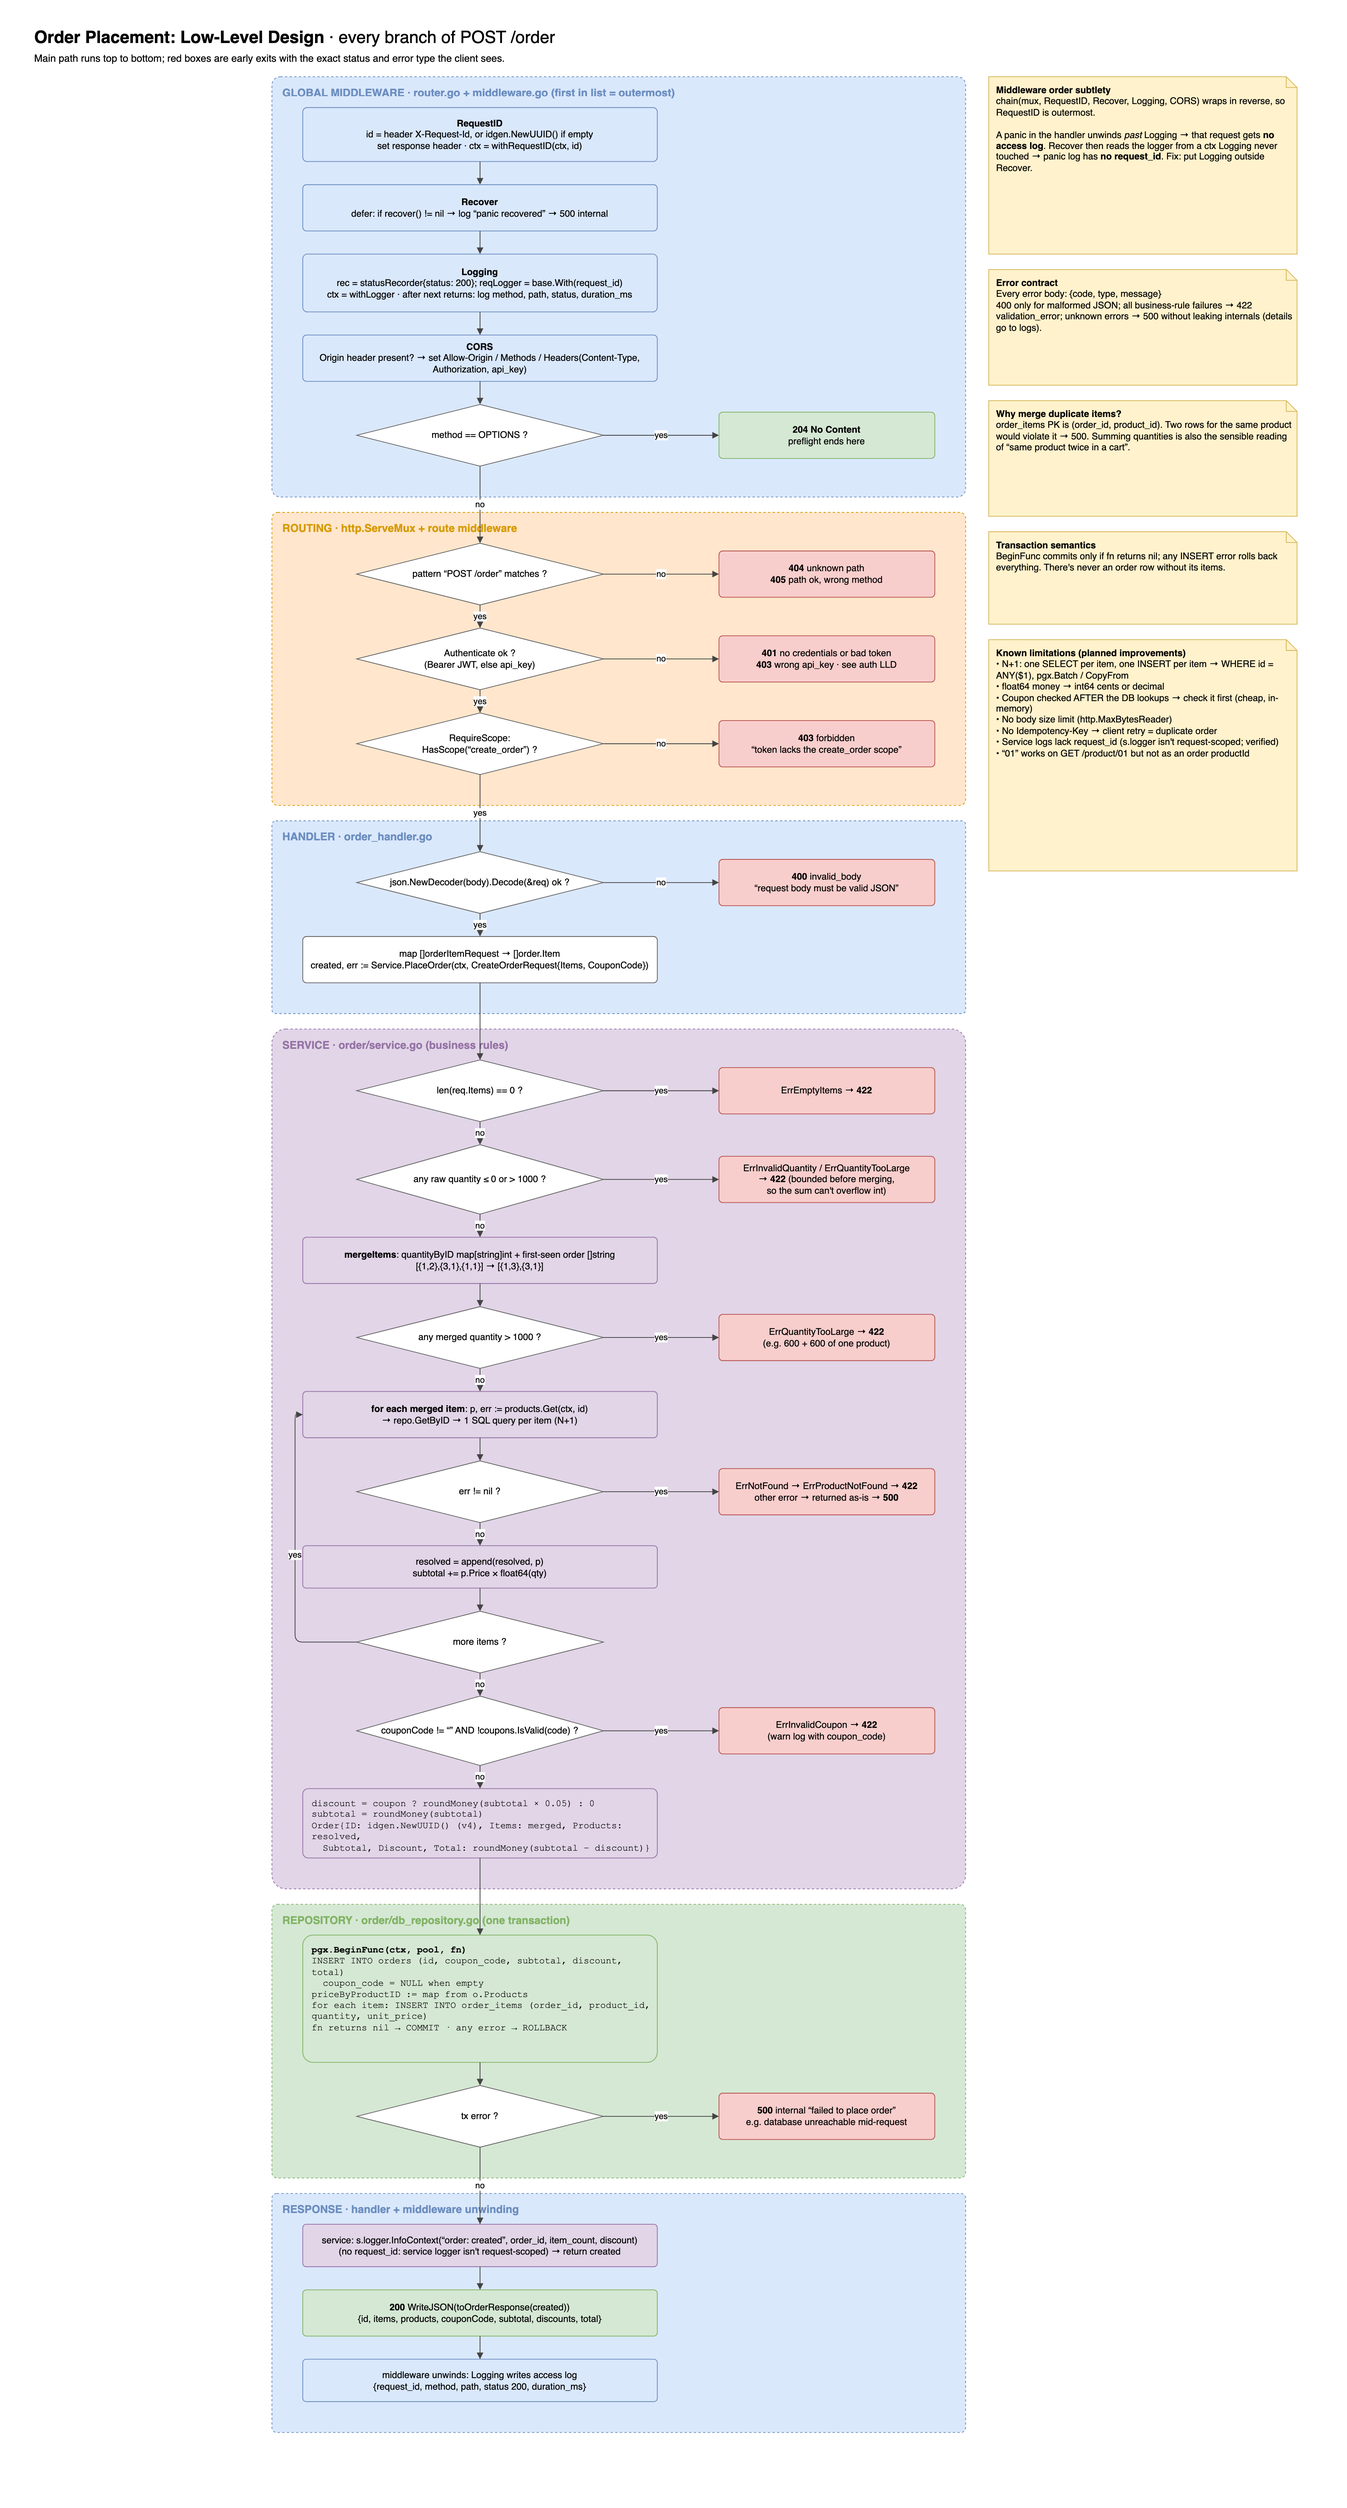
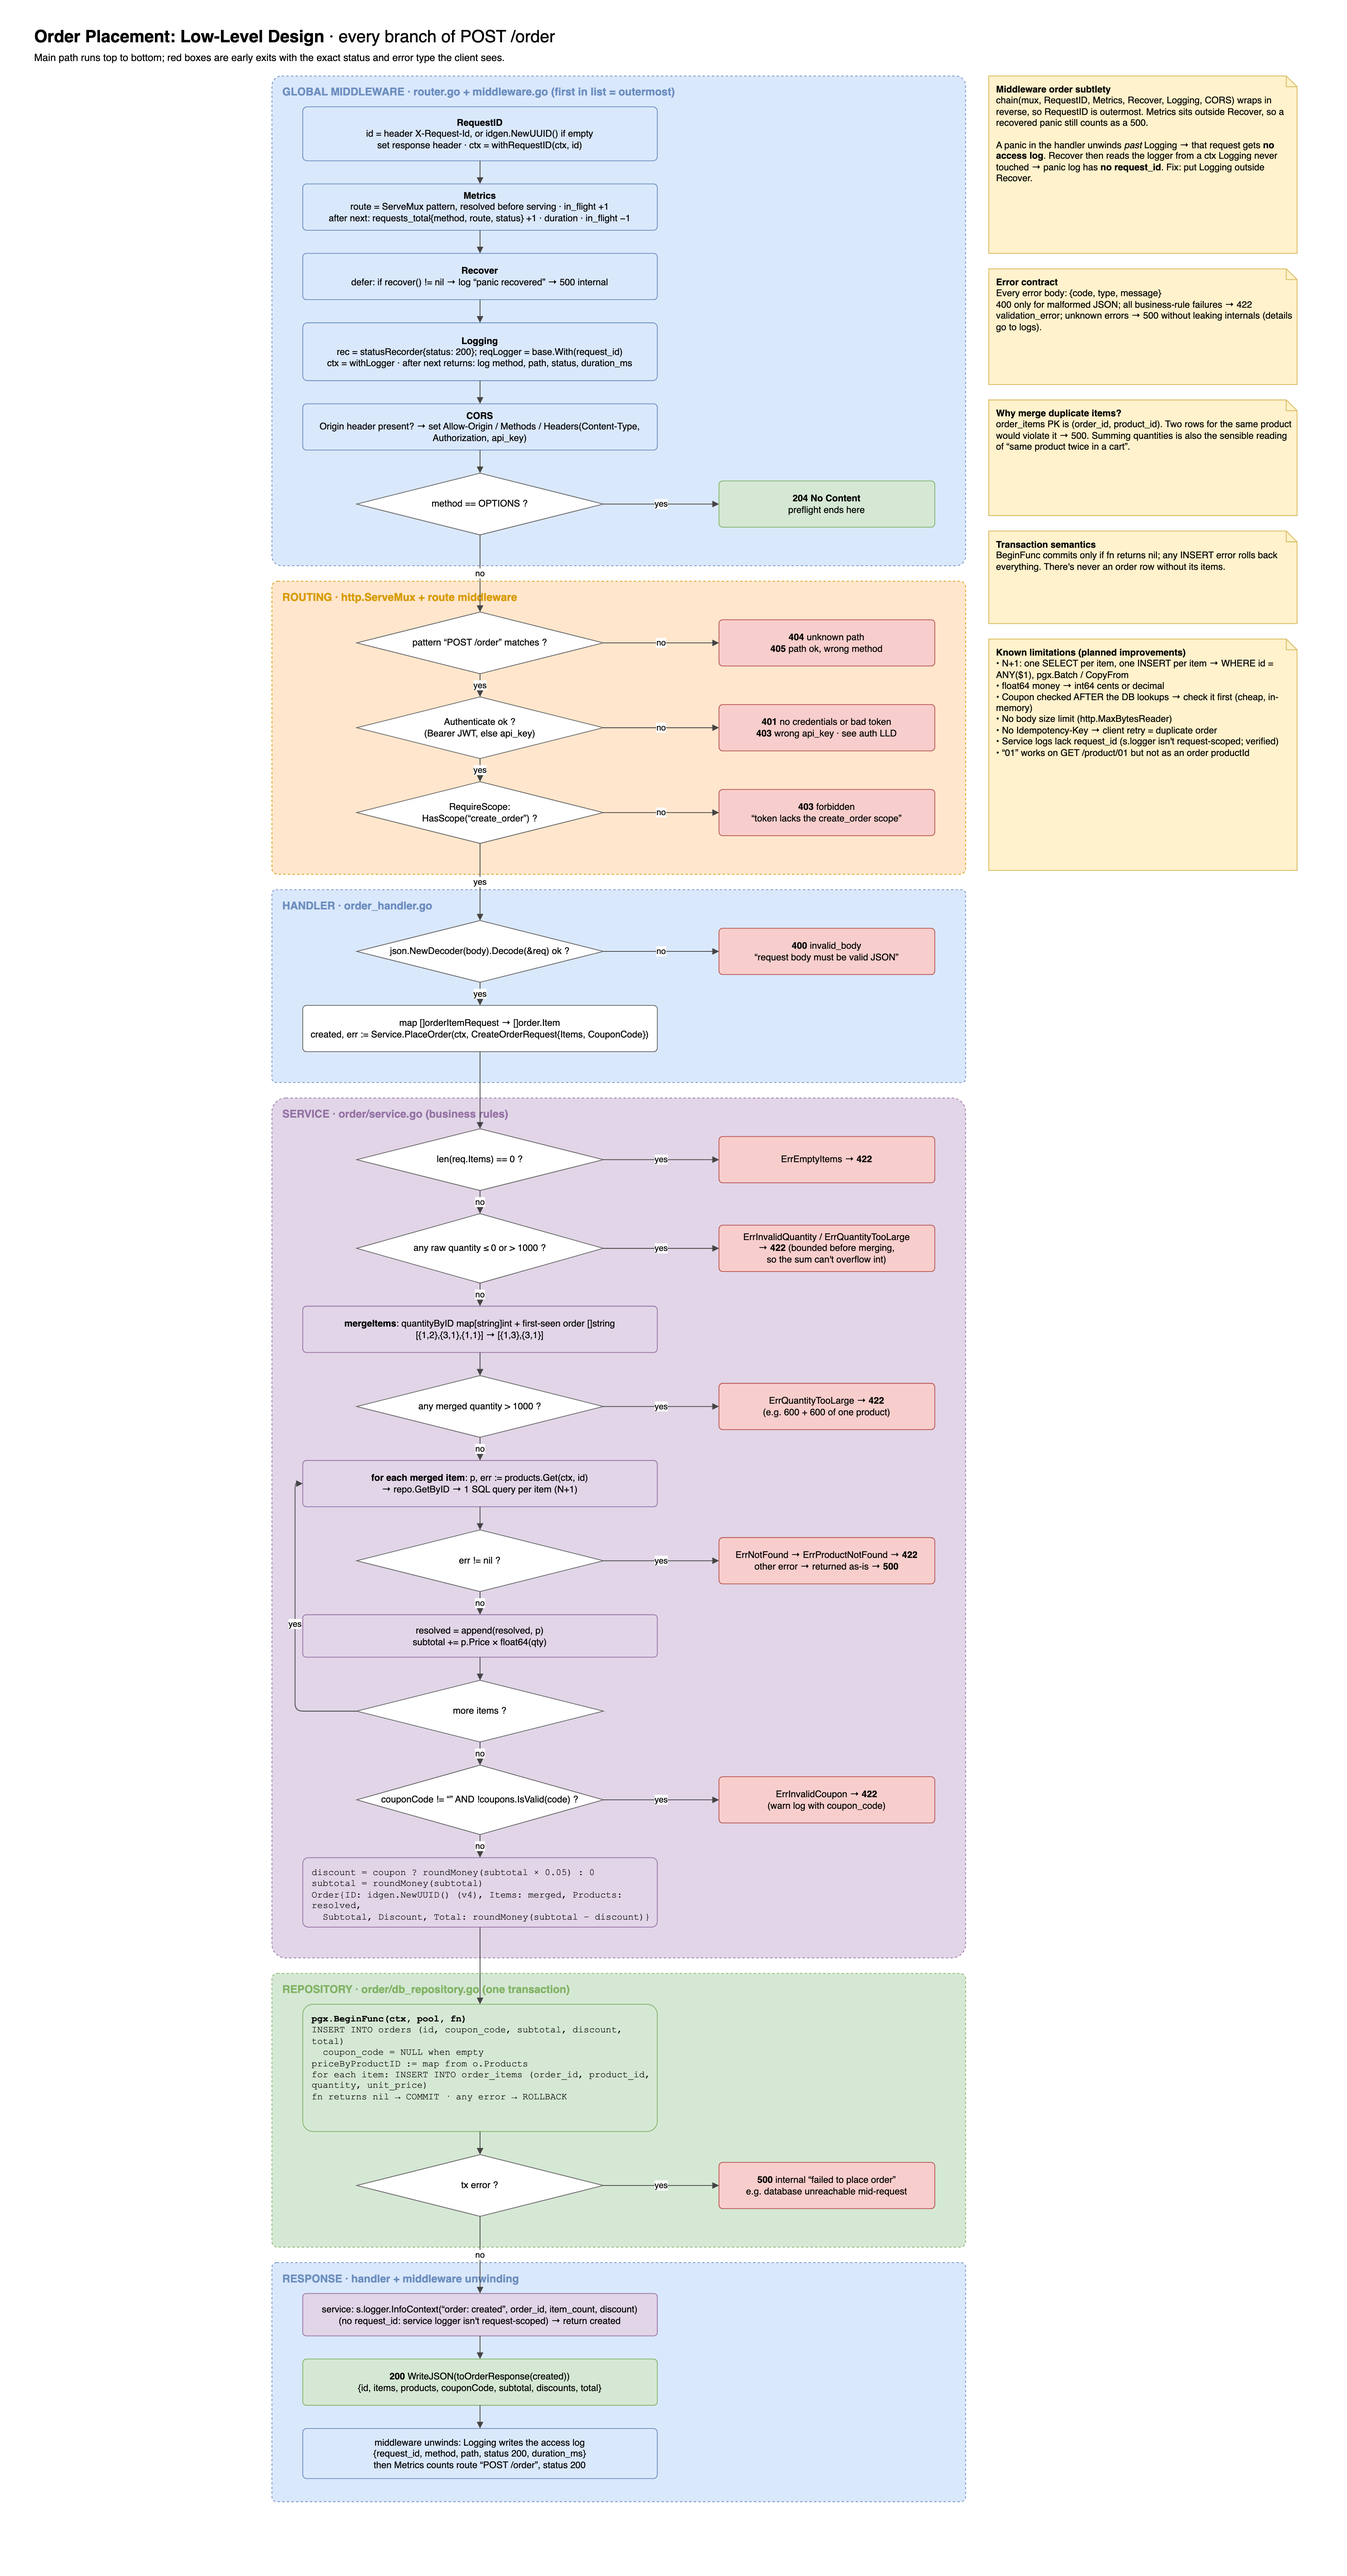
docs: add the Metrics middleware to the order diagrams
The order HLD, LLD and dry run predate v1.2.0 and left out the Metrics
middleware. The LLD gets a Metrics box between RequestID and Recover,
and the dry run a Metrics step with values captured on the real stack.

diff --git a/CHANGELOG.md b/CHANGELOG.md
@@ -15,6 +15,7 @@ Format: [Keep a Changelog](https://keepachangelog.com/en/1.1.0/) · Versioning: 
 ### Changed
 
 - Order diagrams show `Authenticate` + `RequireScope` instead of `APIKeyAuth`, with the re-captured 401 message and CORS headers
+- Order diagrams include the `Metrics` middleware (missing since 1.2.0): HLD chain and `GET /metrics`, an LLD box between RequestID and Recover, and a dry-run step with captured values
 - HTTP server timeouts and the shutdown deadline come from the config file instead of code
 - The in-memory fallback is dev only; stage and prod exit when Postgres is unreachable
 - Compose sets only `APP_ENV` and `DATABASE_URL` and passes the other variables through, so the config file wins; `deploy/.env.example` leaves overrides empty
